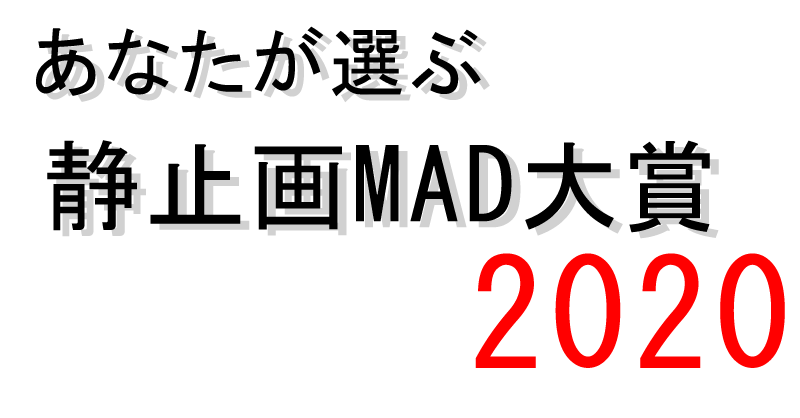
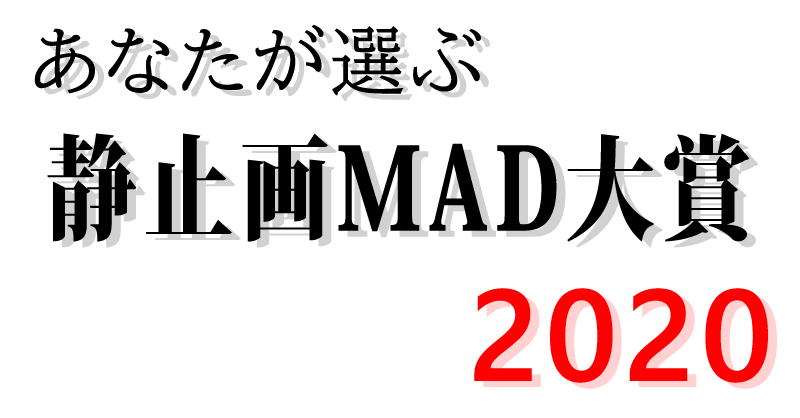
画像差し替え

Changed region(s): [[0.0625, 0.311, 1.0, 0.933], [0.0312, 0.0622, 0.625, 0.2488]]

diff --git a/mvm/2020/index.html b/mvm/2020/index.html
@@ -35,7 +35,7 @@
 <body>
 
 <header>
-  <h1><img src="img/logo.png" alt="あなたが選ぶ静止画M@D大賞2020" /></h1>
+  <h1><img src="img/header.png" alt="あなたが選ぶ静止画M@D大賞2020" /></h1>
 </header>
 
 <main>
